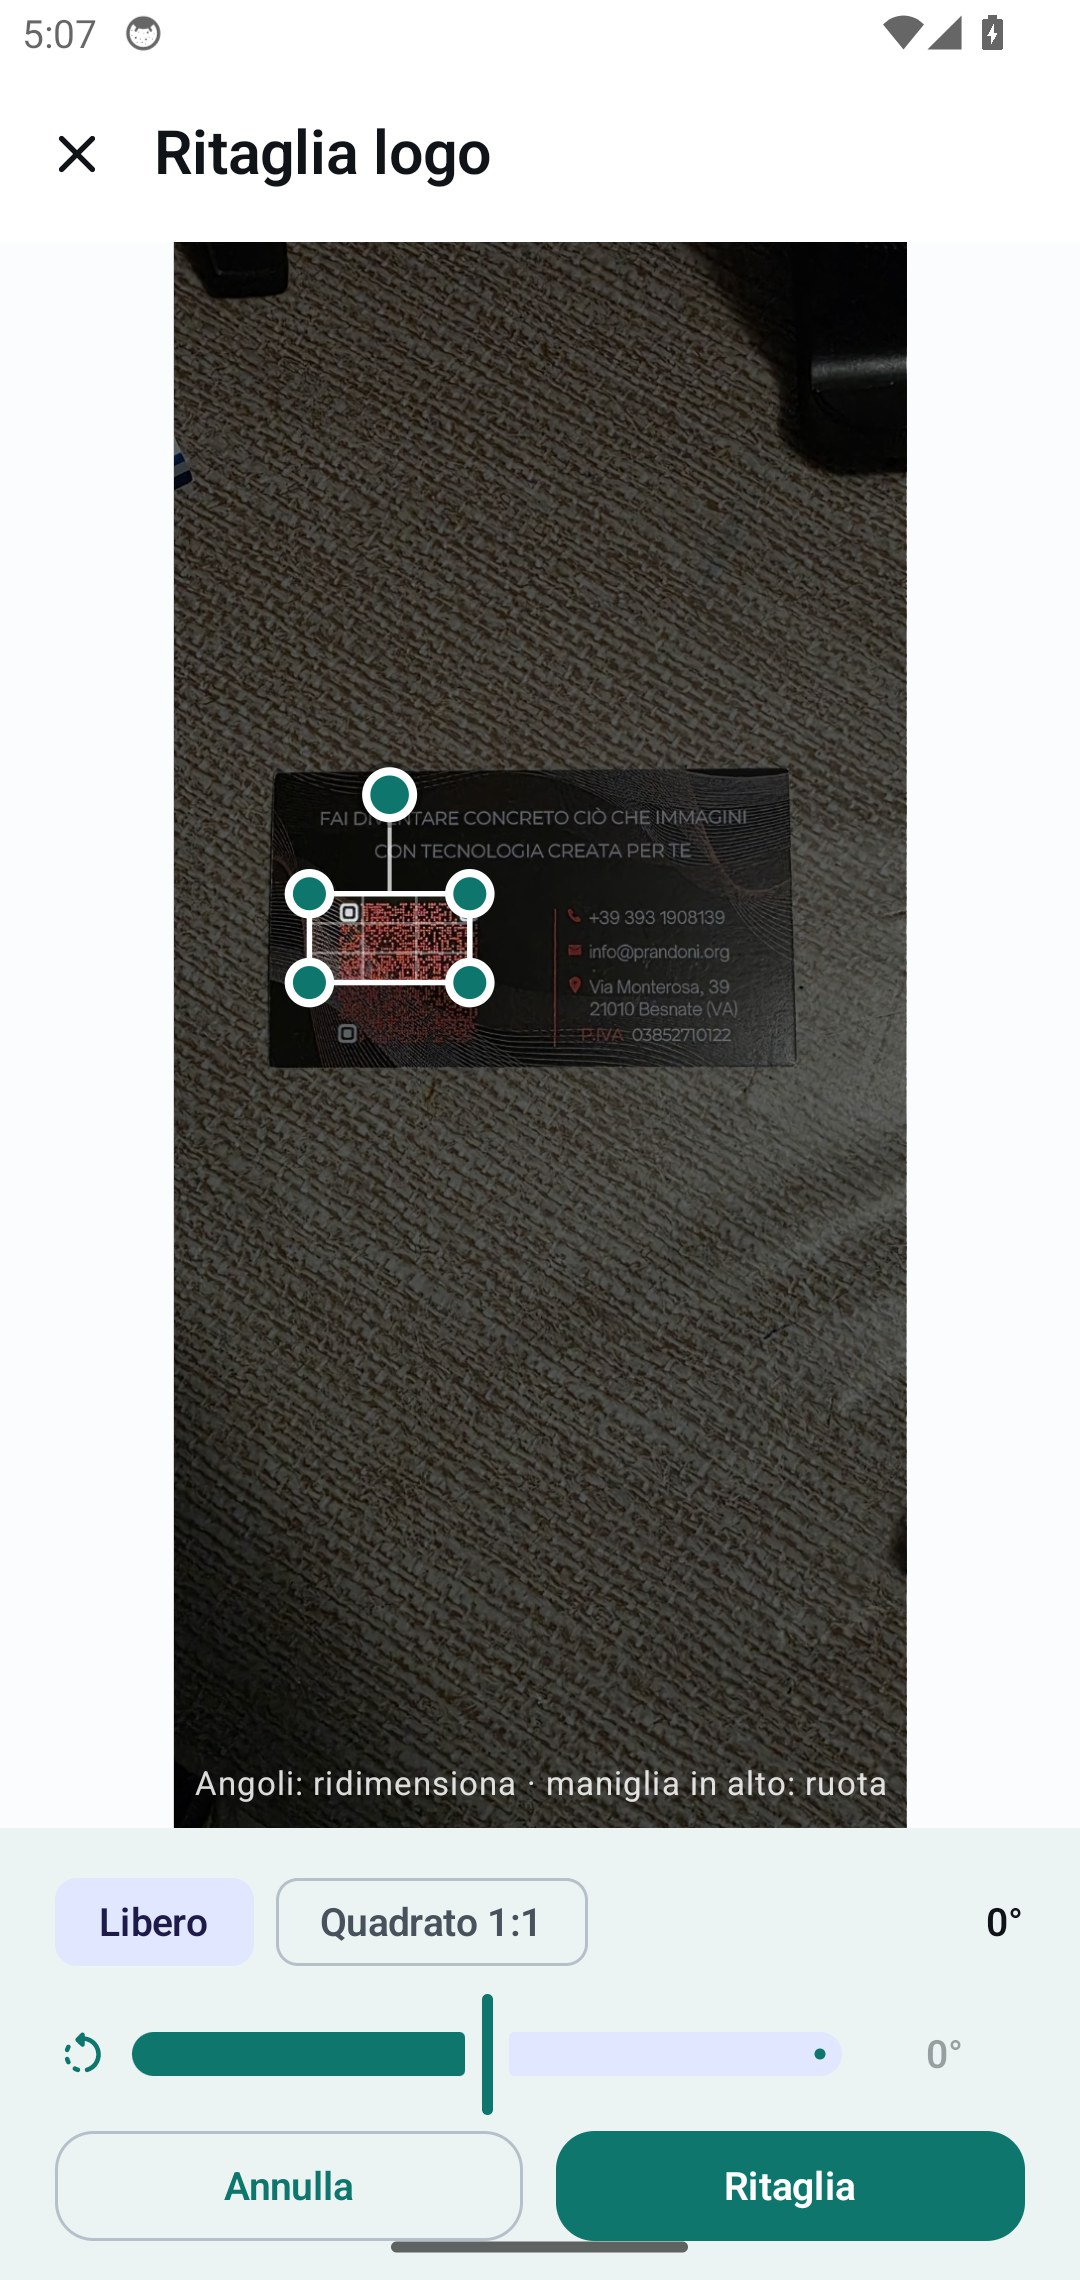
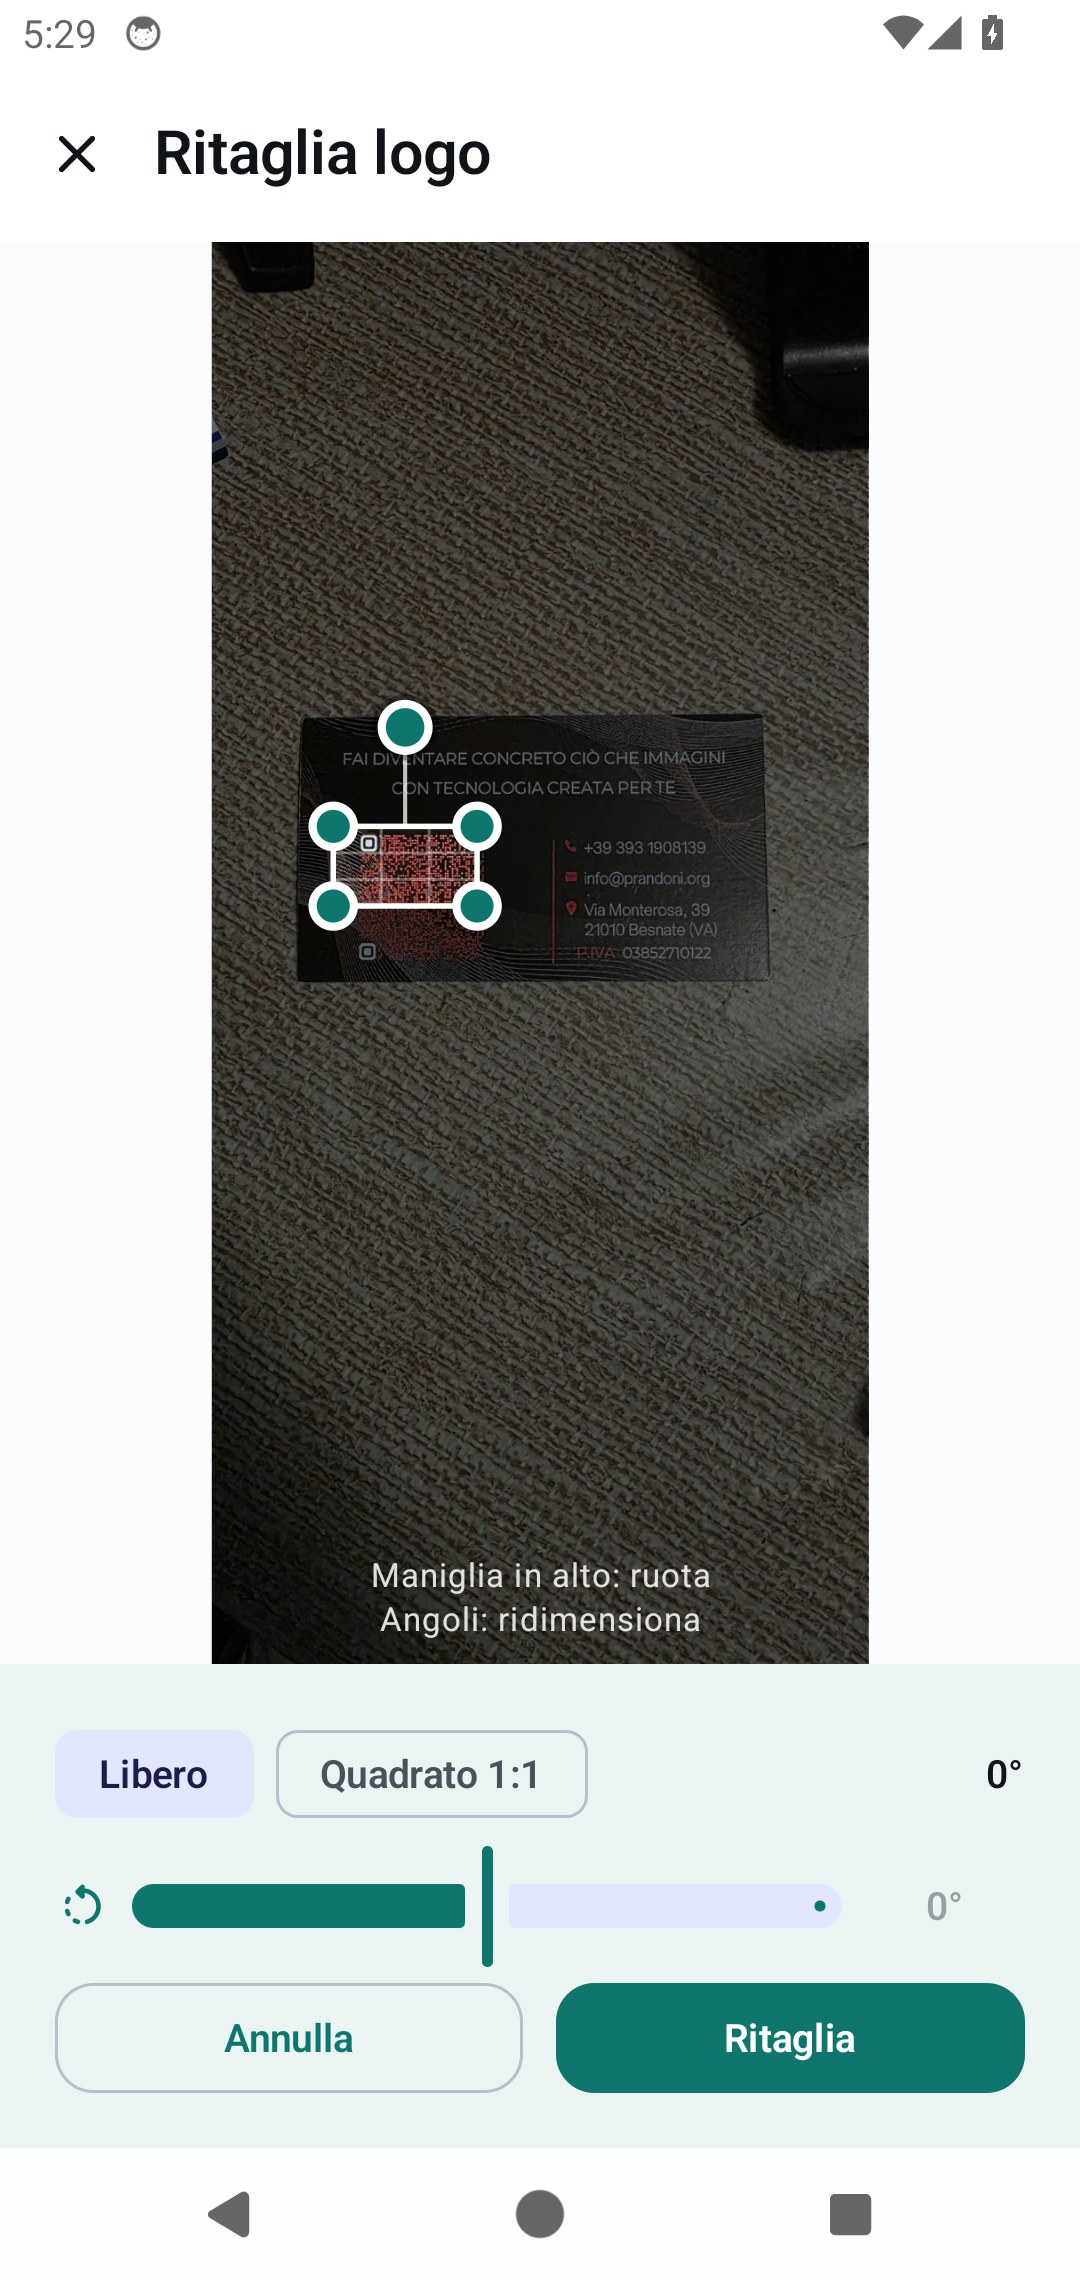
Rispetta gli inset di sistema nelle barre inferiori e prepara la beta
La barra del ritaglio applicava il padding solo visivo: i pulsanti finivano sotto i tasti di
navigazione Android. Ora usa navigationBarsPadding con margine extra e il suggerimento va su due
righe corte. Versione 0.3.0-beta.

🤖 Generated with Codebuff

diff --git a/app/src/main/java/com/paoloprandoni/businesscard/ui/crop/LogoCropScreen.kt b/app/src/main/java/com/paoloprandoni/businesscard/ui/crop/LogoCropScreen.kt
@@ -10,6 +10,7 @@ import androidx.compose.foundation.layout.Column
 import androidx.compose.foundation.layout.Row
 import androidx.compose.foundation.layout.fillMaxSize
 import androidx.compose.foundation.layout.fillMaxWidth
+import androidx.compose.foundation.layout.navigationBarsPadding
 import androidx.compose.foundation.layout.padding
 import androidx.compose.foundation.layout.size
 import androidx.compose.foundation.shape.RoundedCornerShape
@@ -151,7 +152,8 @@ fun LogoCropScreen(
                 Column(
                     modifier = Modifier
                         .fillMaxWidth()
-                        .padding(horizontal = 20.dp, vertical = 10.dp),
+                        .navigationBarsPadding()
+                        .padding(horizontal = 20.dp, vertical = 16.dp),
                 ) {
                     Row(
                         verticalAlignment = Alignment.CenterVertically,
@@ -418,9 +420,10 @@ fun LogoCropScreen(
             }
 
             Text(
-                text = "Angoli: ridimensiona · maniglia in alto: ruota",
+                text = "Maniglia in alto: ruota\nAngoli: ridimensiona",
                 style = MaterialTheme.typography.bodySmall,
                 textAlign = TextAlign.Center,
+                maxLines = 2,
                 color = Color.White.copy(alpha = 0.85f),
                 modifier = Modifier
                     .align(Alignment.BottomCenter)

diff --git a/CLAUDE.md b/CLAUDE.md
@@ -24,6 +24,7 @@ scegliendo l'account di destinazione.
 | M11 — README completo con screenshot + regola di manutenzione README | ✅ completata |
 | M12 — Firma release stabile (keystore dedicato) + APK release installabile/aggiornabile | ✅ completata |
 | M13 — Ritaglio logo ruotabile (`CropFrame`) + 10 test JVM | ✅ completata |
+| M14 — Layout edge-to-edge: barre inferiori con inset di sistema (beta 0.3.0) | ✅ completata |
 
 Repository privata: <https://github.com/PaoloPrandoniTechnology/business-card-scanner-android>
 (branch `main`, remote `origin`).
@@ -37,7 +38,7 @@ Ultima verifica: `./gradlew assembleDebug` → **BUILD SUCCESSFUL**, APK in
 `./gradlew assembleRelease` → **BUILD SUCCESSFUL**, APK firmato in
 `app/build/outputs/apk/release/app-release.apk` (~54 MB), verificato con `apksigner verify`
 (certificato `CN=Paolo Prandoni, OU=Business Card Scanner`, schema V1+V2+V3).
-`aapt2 dump badging` conferma: `package com.paoloprandoni.businesscard`, versione `0.2.0-alpha`,
+`aapt2 dump badging` conferma: `package com.paoloprandoni.businesscard`, versione `0.3.0-beta`,
 `minSdkVersion 26`, `targetSdkVersion 35`, `compileSdkVersion 35`, permessi `CAMERA`,
 `READ_CONTACTS`, `WRITE_CONTACTS`, `GET_ACCOUNTS`.
 
@@ -268,6 +269,8 @@ dal Play Store. Le contromisure realmente efficaci sono:
   parsing di nome, azienda, cellulare/ufficio/fax, email, sito, indirizzo e note.
 - **Screenshot del README** rigenerati sull'emulatore API 34 con il biglietto da visita dell'autore
   (nessun biglietto di clienti pubblicato): home, fotocamera, revisione, ritaglio logo, contatto salvato.
+- **Layout con navigazione a 3 pulsanti** su emulatore: barra del ritaglio e pulsante "Salva in
+  rubrica" sopra la barra di sistema (verificato con `uiautomator dump`: ~72 dp dal fondo).
 - **Rotazione del ritaglio** su emulatore: maniglia trascinata (−4,5°) e slider (−21°), con
   anteprima nella revisione che mostra il logo ruotato; `./gradlew testDebugUnitTest` →
   `CropFrameTest` 10/10 verde.
@@ -293,6 +296,10 @@ dal Play Store. Le contromisure realmente efficaci sono:
   di `BitmapFactory.decodeStream` con `inJustDecodeBounds` (sempre null) veniva interpretato come
   errore di lettura; ora l'esito è valutato su un flag esplicito. Il test strumentato copre questo
   caso per evitare regressioni.
+- **Inset di sistema (v0.3.0-beta):** l'app è edge-to-edge (`enableEdgeToEdge`), quindi ogni
+  barra inferiore deve applicare `Modifier.navigationBarsPadding()` (ritaglio, revisione,
+  fotocamera); il contenuto delle schermate con `Scaffold` riceve già gli inset di sistema. Senza
+  padding i pulsanti finiscono sotto la barra di navigazione Android.
 - **Rotazione del ritaglio (v0.2.0-alpha):** manuale (maniglia sopra il bordo o slider ±90°, passo
   0,5° con aggancio a 0/45/90). Non c'è rilevamento automatico dell'inclinazione: su sfondi
   texturizzati produrrebbe angoli sbagliati. Geometria in `domain/crop/CropFrame.kt` con test JVM.

diff --git a/README.md b/README.md
@@ -9,11 +9,11 @@ Nessun server, nessun account dell'app, nessun dato del biglietto inviato in ret
 
 | | |
 |---|---|
-| **Versione** | `0.2.0-alpha` (pre-release, APK release firmato) |
+| **Versione** | `0.3.0-beta` (beta, APK release firmato) |
 | **Requisiti** | Android 8.0+ (`minSdk 26`) · `targetSdk 35` |
 | **APK** | ~54 MB release firmata (modello OCR incluso, nessun download a runtime) |
 | **Lingua UI** | Italiano |
-| **Stato** | Alpha — flusso completo funzionante e verificato su emulatore API 34 |
+| **Stato** | Beta — flusso completo funzionante e verificato su emulatore API 34 |
 
 ---
 
@@ -303,6 +303,16 @@ presente) oppure su `null`/`null` per la memoria locale del telefono.
 ---
 
 ## Changelog
+
+### v0.3.0-beta — 2026-11-18
+
+Prima **beta**: nessuna nuova funzione, solo rifiniture di interfaccia e affidabilità.
+
+- **Layout a filo della barra di sistema**: le barre inferiori rispettano gli inset della
+  navigazione Android (`navigationBarsPadding()`), quindi "Ritaglia/Annulla" e "Salva in rubrica"
+  non finiscono più sotto i tasti di sistema; verificato con la navigazione a 3 pulsanti.
+- Il suggerimento nella schermata di ritaglio è su due righe corte e non viene più tagliato ai lati.
+- Spazio extra (16 dp) sotto la barra del ritaglio per non avere i pulsanti a ridosso del bordo.
 
 ### v0.2.0-alpha — 2026-11-18
 
